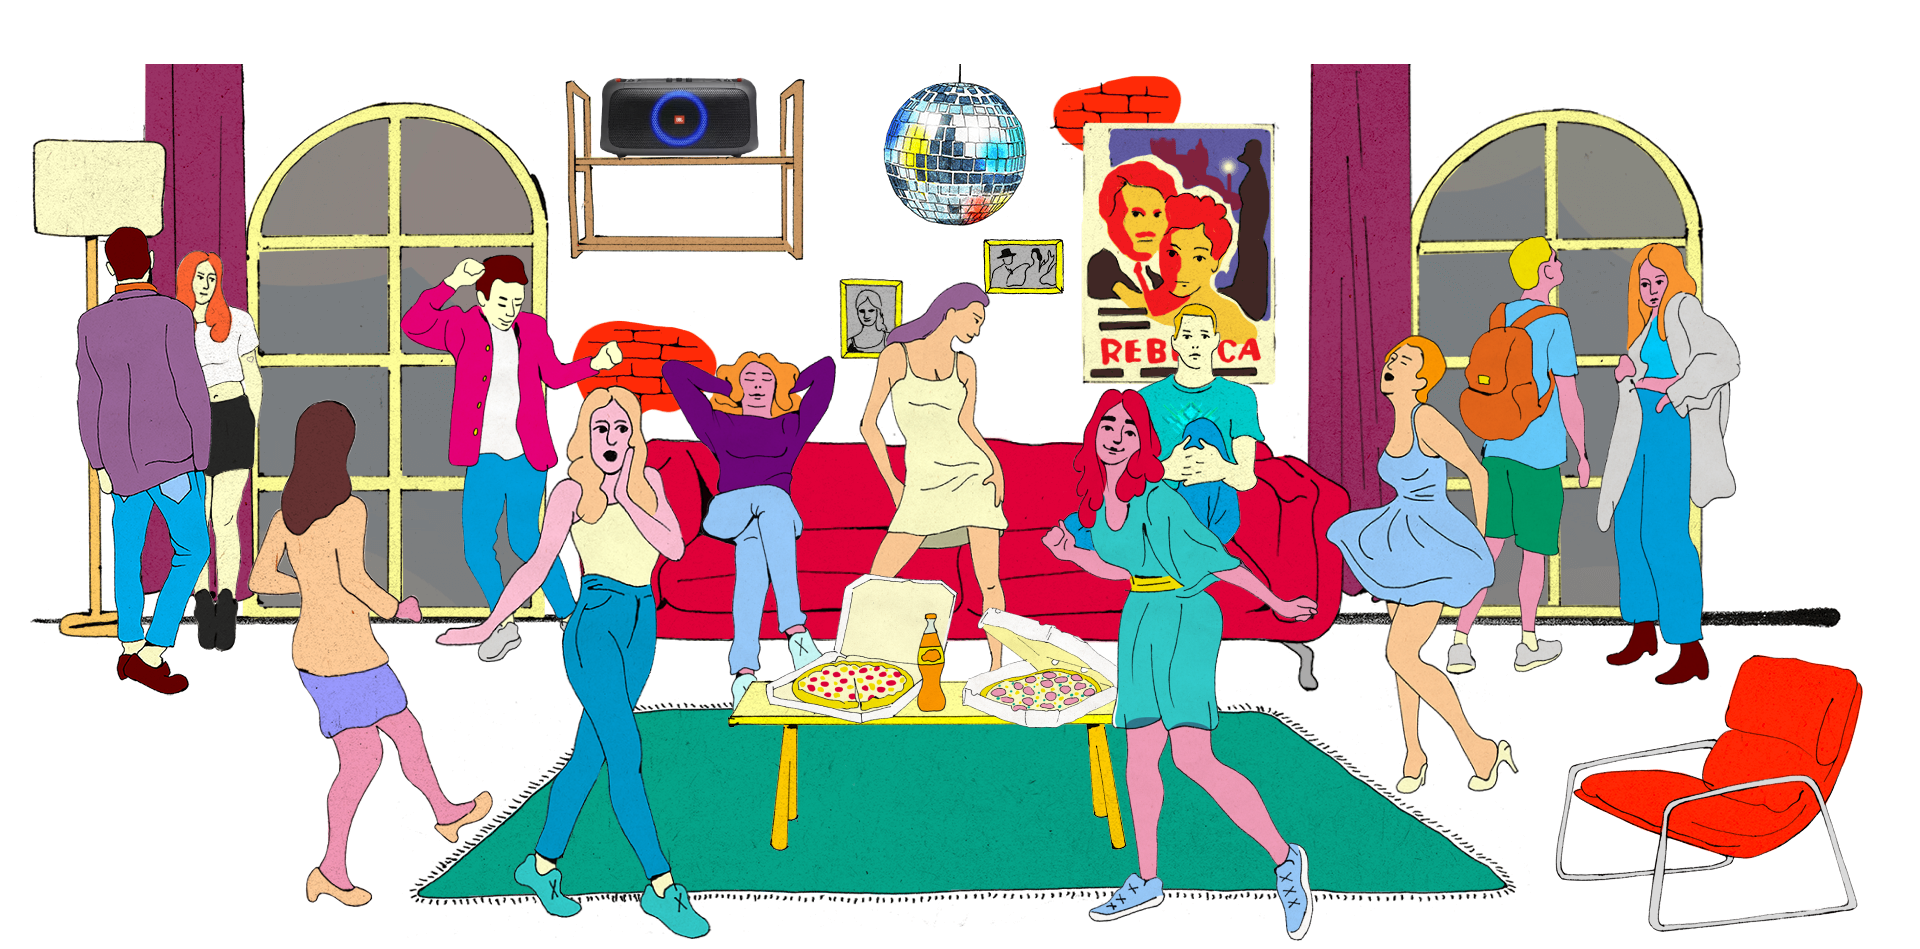
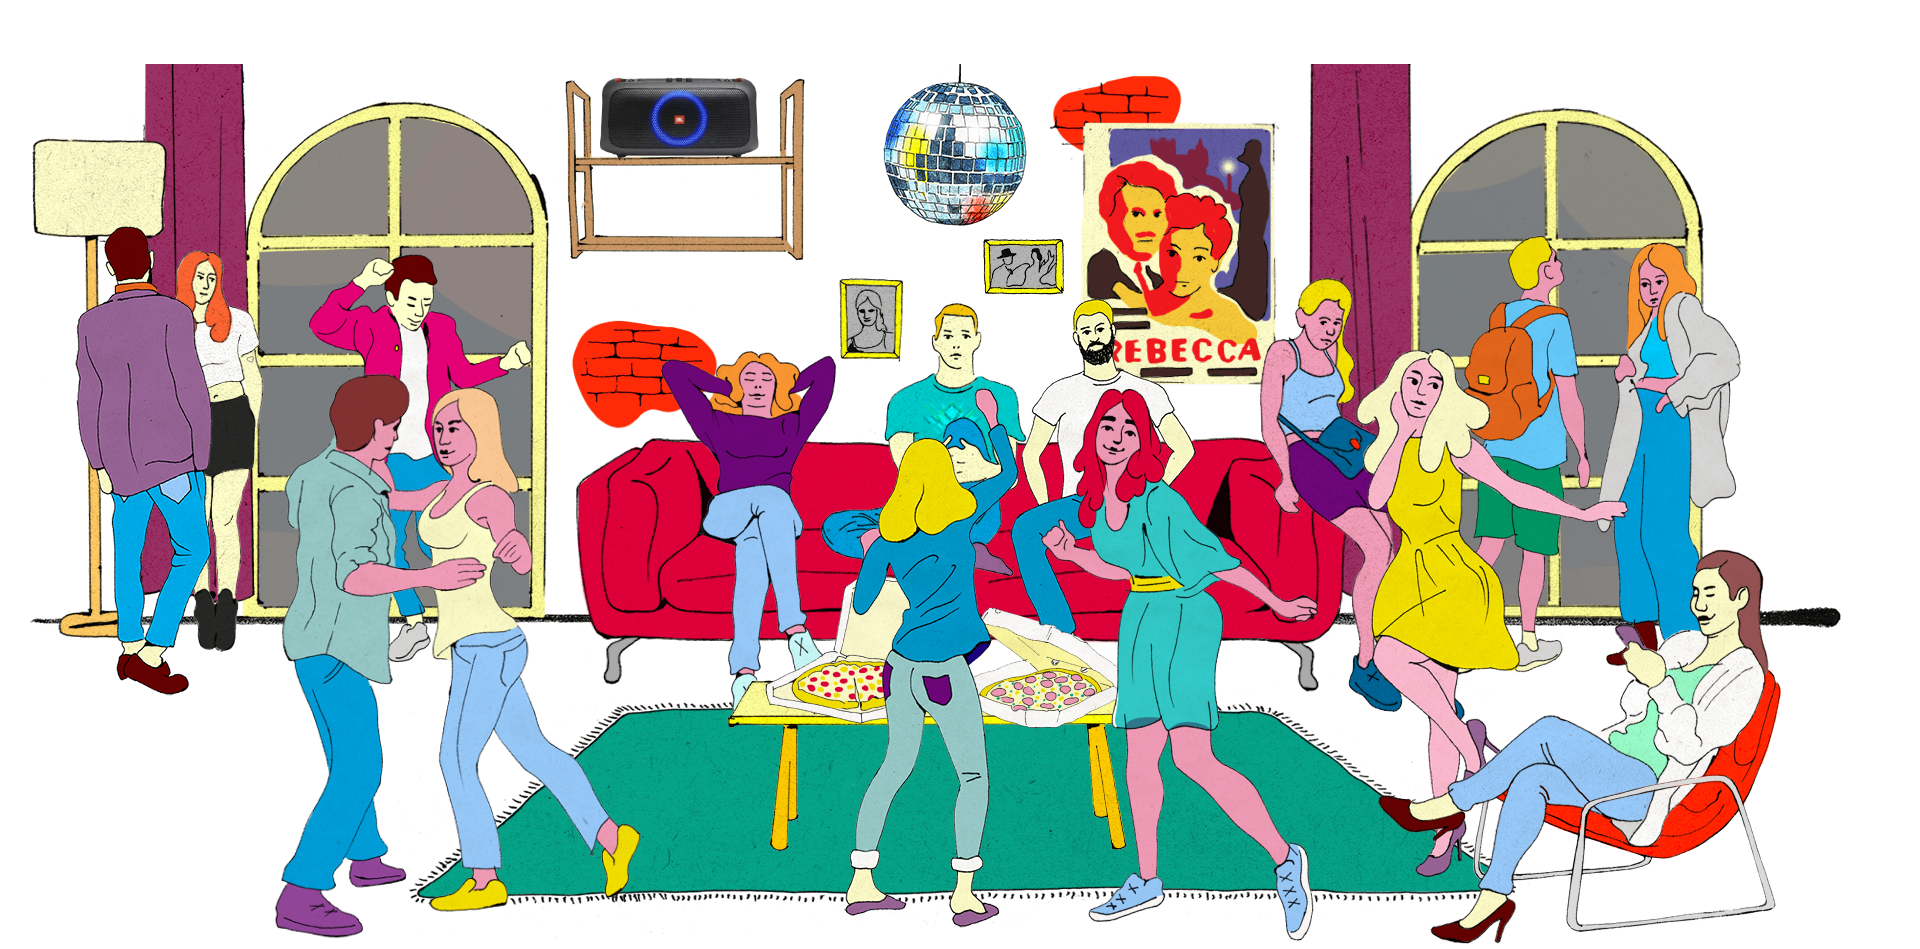
Added level 3

Changed region(s): [[0.125, 0.2445, 0.375, 1.0], [0.5625, 0.275, 0.9688, 1.0], [0.4062, 0.3056, 0.5938, 0.9779]]

diff --git a/src/components/Game/levelsData.js b/src/components/Game/levelsData.js
@@ -35,9 +35,26 @@ const levels = [
         ]
     },
     {
-        bgImg: 16,
-        corect: 17,
-        nocorect: 18,
+        bgImg: 23,
+        corect: 36,
+        nocorect: 24,
+        animatePlus: [
+            {id: 28, style: {left: '30.5em', top: '18.4em', width: '22.9em', height: '42.1em'}},//Парень в розовой рубашке
+            {id: 29, style: {left: '143.2em', top: '16.8em', width: '14.6em', height: '43.8em'}},//Парень с рюкзаком
+            {id: 37, style: {left: '26.7em', top: '30.3em', width: '37.6em', height: '57.4em'}},//Тансующая пара
+            {id: 34, style: {left: '103em', top: '32em', width: '27.9em', height: '55.5em'}}, //Девушка в зеленом платье
+            {id: 38, style: {left: '134.2em', top: '27.8em', width: '32.3em', height: '53em'}}, //Девушка в жёлтом платье
+            {id: 39, style: {left: '136em', top: '47.4em', width: '41em', height: '40.4em'}}, //Девушка в кресле не gif
+            {id: 31, style: {left: '59.2em', top: '11.8em', width: '11.8em', height: '6em'}}, //Колонка
+        ],
+        animateMinus: [
+            {id: 28, style: {left: '39.4em', top: '18.3em', width: '22.9em', height: '42.1em'}},//Парень в розовой рубашке
+            {id: 29, style: {left: '143.2em', top: '16.8em', width: '14.6em', height: '43.8em'}},//Парень с рюкзаком
+            {id: 31, style: {left: '59.2em', top: '11.8em', width: '11.8em', height: '6em'}}, //Колонка
+            {id: 32, style: {left: '23.7em', top: '32.7em', width: '26.4em', height: '52.1em'}}, //Девушка спиной
+            {id: 34, style: {left: '103em', top: '32em', width: '27.9em', height: '55.5em'}}, //Девушка в зеленом
+            {id: 33, style: {left: '136.6em', top: '30.4em', width: '26.1em', height: '56.4em'}}, //Парень с микрофоном
+        ]
     },
     {
         bgImg: 20,

diff --git a/src/dataImg.js b/src/dataImg.js
@@ -15,6 +15,7 @@ import gameLocation2 from './img/gameLocation2.png';
 import gameLocation21 from './img/gameLocation21.png';
 import gameLocation22 from './img/gameLocation22.png';
 import gameLocation3 from './img/gameLocation3.png';
+import gameLocation31 from './img/gameLocation31.png';
 import gameLocation32 from './img/gameLocation32.png';
 import gameLocation4 from './img/gameLocation4.png';
 import gameLocation41 from './img/gameLocation41.png';
@@ -34,6 +35,9 @@ import gif5 from './img/gif5.gif';
 import gif6 from './img/gif6.gif';
 import gif7 from './img/gif7.gif';
 import gif8 from './img/gif8.gif';
+import gif9 from './img/gif9.gif';
+import gif10 from './img/gif10.gif';
+import gif11 from './img/gif11.png';
 
 const dataImages = [
     {
@@ -215,6 +219,26 @@ const dataImages = [
         id: 35,
         name: 'gif8',
         url: gif8
+    },
+    {
+        id: 36,
+        name: 'gameLocation31',
+        url: gameLocation31
+    },
+    {
+        id: 37,
+        name: 'gif9',
+        url: gif9
+    },
+    {
+        id: 38,
+        name: 'gif10',
+        url: gif10
+    },
+    {
+        id: 39,
+        name: 'gif11',
+        url: gif11
     },
 ];
 

diff --git a/src/components/Scale/Scale.js b/src/components/Scale/Scale.js
@@ -15,7 +15,7 @@ export default function Scale() {
         let arr = [...Array(11).keys()];
 
         let result = arr.map((s, i) => {
-            return (<rect x={i * 10 + 7} y={indx * 31} width="25" height="7" rx="2" transform={'rotate(90 ' + (i * 10 + 7) +  ' ' + (indx * 31) + ')'} fill={el ? 'red' : 'white'}/>);
+            return (<rect key={(indx + "") + (i + "")} x={i * 10 + 7} y={indx * 31} width="25" height="7" rx="2" transform={'rotate(90 ' + (i * 10 + 7) +  ' ' + (indx * 31) + ')'} fill={el ? 'red' : 'white'}/>);
         });
         return result;
     });
